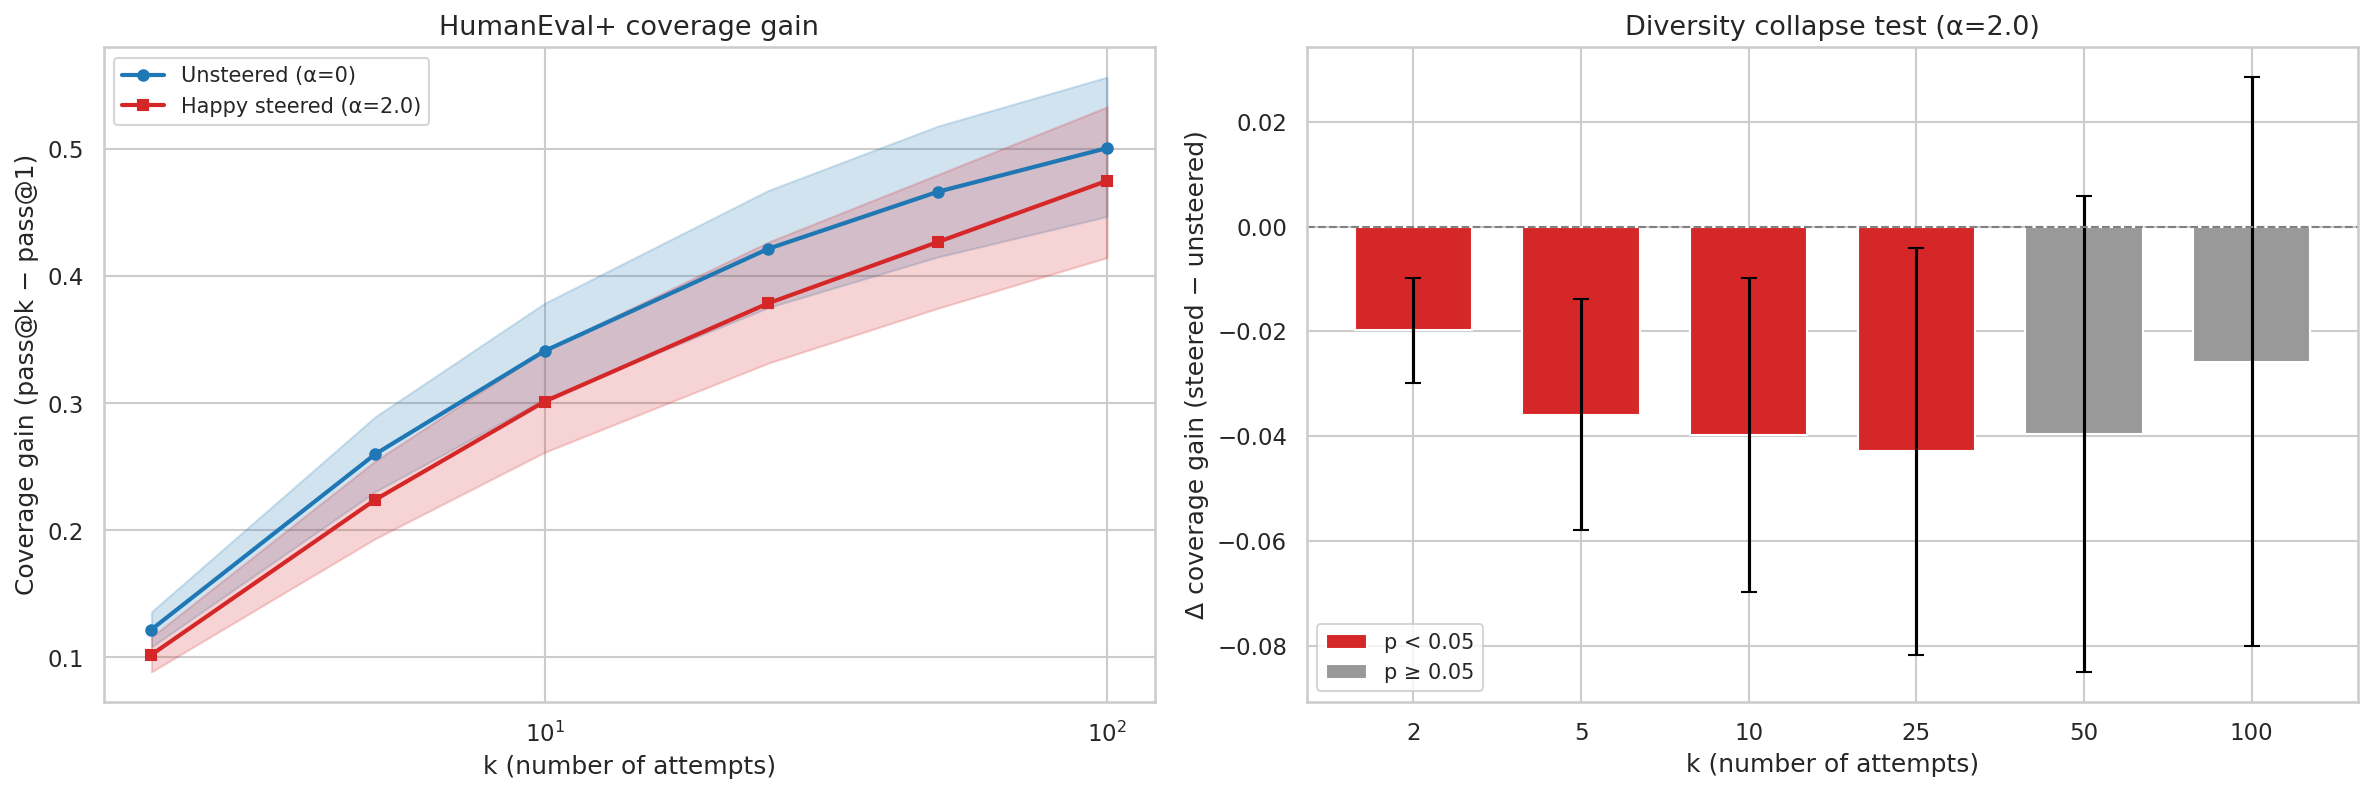
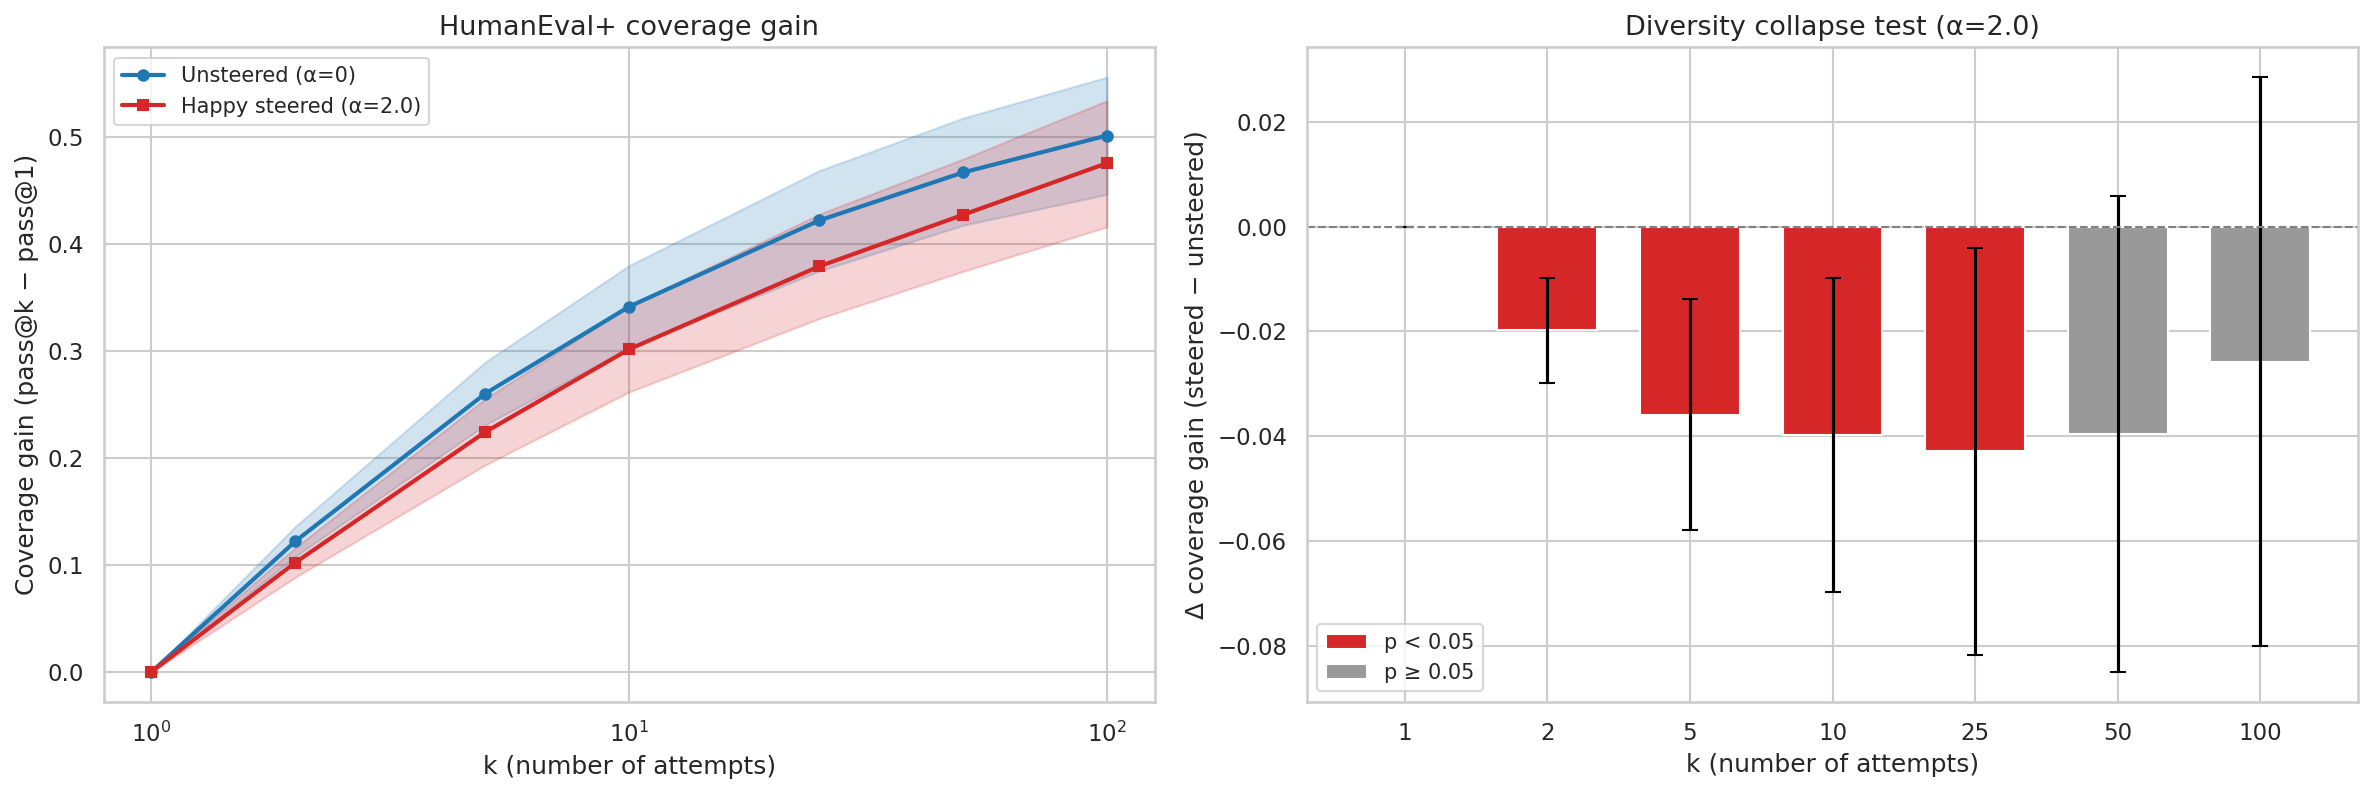
fix: Include k=1 anchor point (zero by definition) in coverage gain plot

diff --git a/scripts/eval/plot_pass_at_k.py b/scripts/eval/plot_pass_at_k.py
@@ -383,9 +383,7 @@ def plot_coverage_gain(
             continue
 
         k_values = sorted(int(k) for k in baseline[f"pass_at_k_{suffix}"].keys())
-        # Need k > 1 for coverage gain
-        k_values_cg = [k for k in k_values if k > 1]
-        if not k_values_cg:
+        if not k_values:
             continue
 
         fig, (ax_curve, ax_delta) = plt.subplots(1, 2, figsize=(16, 5.5))
@@ -402,7 +400,7 @@ def plot_coverage_gain(
             passk1 = _per_problem_passk(pp, 1)
             means, lows, highs = [], [], []
             rng = np.random.default_rng(42)
-            for k in k_values_cg:
+            for k in k_values:
                 passk_scores = _per_problem_passk(pp, k)
                 cg = passk_scores - passk1  # coverage gain per problem
                 n = len(cg)
@@ -415,9 +413,9 @@ def plot_coverage_gain(
                 lows.append(float(lo))
                 highs.append(float(hi))
 
-            ax_curve.plot(k_values_cg, means, marker=marker, markersize=5,
+            ax_curve.plot(k_values, means, marker=marker, markersize=5,
                           label=label, color=color, linewidth=2)
-            ax_curve.fill_between(k_values_cg, lows, highs, alpha=0.2, color=color)
+            ax_curve.fill_between(k_values, lows, highs, alpha=0.2, color=color)
 
         ax_curve.set_xscale("log")
         ax_curve.set_xlabel("k (number of attempts)", fontsize=12)
@@ -431,20 +429,24 @@ def plot_coverage_gain(
         passk1_steer = _per_problem_passk(per_problem_steer, 1)
 
         deltas, ci_lows, ci_highs, p_values = [], [], [], []
-        for k in k_values_cg:
+        for k in k_values:
             cg_base = _per_problem_passk(per_problem_baseline, k) - passk1_base
             cg_steer = _per_problem_passk(per_problem_steer, k) - passk1_steer
             diff = cg_steer - cg_base
-            mean_diff = diff.mean()
-            se_diff = diff.std(ddof=1) / np.sqrt(len(diff))
-            _, p_val = stats.ttest_rel(cg_steer, cg_base)
+            mean_diff = float(diff.mean())
+            se_diff = float(diff.std(ddof=1) / np.sqrt(len(diff)))
+            # k=1: coverage gain is identically 0 for both, no test needed
+            if k == 1:
+                p_val = 1.0
+            else:
+                _, p_val = stats.ttest_rel(cg_steer, cg_base)
 
             deltas.append(mean_diff)
             ci_lows.append(mean_diff - 1.96 * se_diff)
             ci_highs.append(mean_diff + 1.96 * se_diff)
             p_values.append(p_val)
 
-        x = np.arange(len(k_values_cg))
+        x = np.arange(len(k_values))
         colors = ["tab:red" if p < 0.05 else "0.6" for p in p_values]
         yerr_lo = [d - lo for d, lo in zip(deltas, ci_lows)]
         yerr_hi = [hi - d for d, hi in zip(deltas, ci_highs)]
@@ -454,7 +456,7 @@ def plot_coverage_gain(
                           fmt="none", ecolor="black", capsize=4, linewidth=1.5)
         ax_delta.axhline(0, color="gray", linestyle="--", linewidth=1)
         ax_delta.set_xticks(x)
-        ax_delta.set_xticklabels([str(k) for k in k_values_cg])
+        ax_delta.set_xticklabels([str(k) for k in k_values])
         ax_delta.set_xlabel("k (number of attempts)", fontsize=12)
         ax_delta.set_ylabel("Δ coverage gain (steered − unsteered)", fontsize=12)
         ax_delta.set_title(
